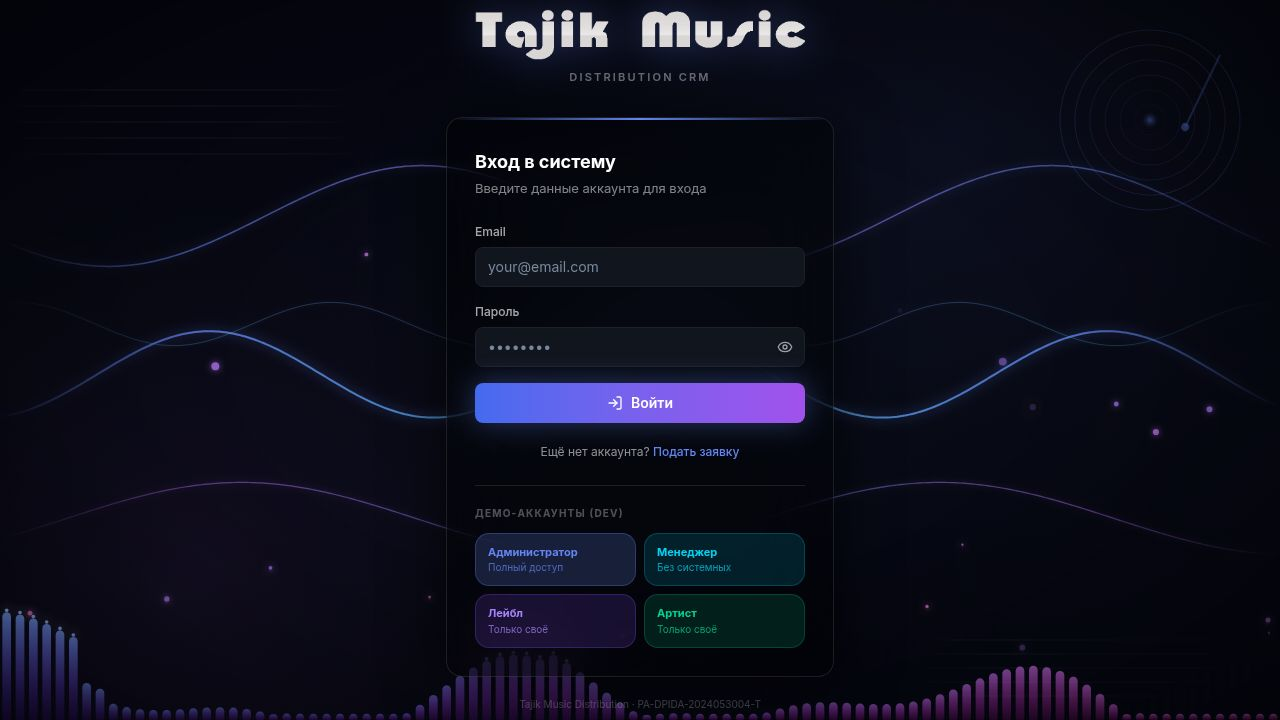
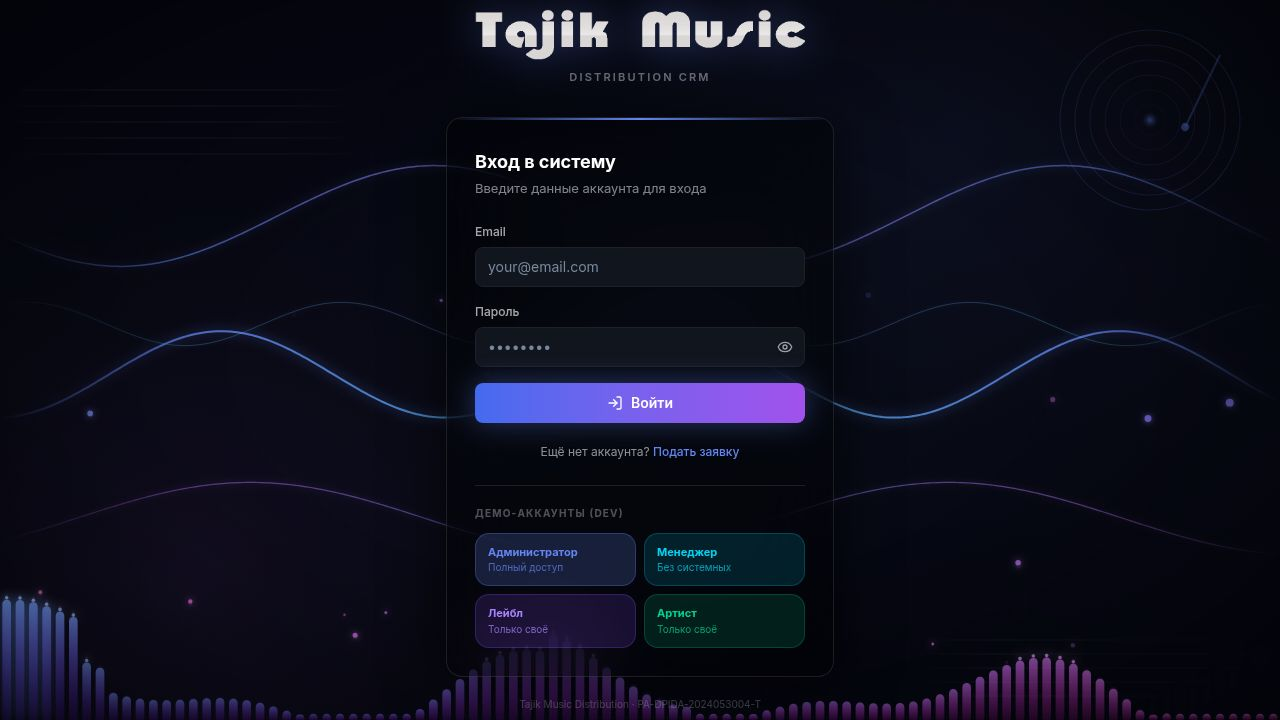
Add ability for administrators to temporarily log in as other users
Introduce a new dialog component for user impersonation, allowing administrators to switch user accounts. Update layout to include a menu option for this feature, which fetches and displays a searchable list of users, enabling seamless switching and a visual indicator of the impersonation state.

Replit-Commit-Author: Agent
Replit-Commit-Session-Id: 12347e3b-bba9-4431-a48b-e6d56e2d88b0
Replit-Commit-Checkpoint-Type: full_checkpoint
Replit-Commit-Event-Id: 428a035f-8997-43d8-9a8f-2f0101adbc15
Replit-Commit-Screenshot-Url: https://storage.googleapis.com/screenshot-production-us-central1/67c94f0b-b70a-4b60-9207-2a9435433159/12347e3b-bba9-4431-a48b-e6d56e2d88b0/TjV8ggN
Replit-Helium-Checkpoint-Created: true

diff --git a/artifacts/crm-panel/src/components/impersonate-dialog.tsx b/artifacts/crm-panel/src/components/impersonate-dialog.tsx
@@ -1,0 +1,191 @@
+import { useState, useEffect, useRef } from "react";
+import {
+  Dialog, DialogContent, DialogHeader, DialogTitle, DialogDescription,
+} from "./ui/dialog";
+import { Input } from "./ui/input";
+import { Button } from "./ui/button";
+import { Avatar, AvatarFallback } from "./ui/avatar";
+import { Badge } from "./ui/badge";
+import { Search, Loader2, LogIn } from "lucide-react";
+import { useAuth } from "@/lib/auth";
+import { ROLE_LABELS, ROLE_COLORS } from "@/lib/permissions";
+import { cn } from "@/lib/utils";
+import { useToast } from "@/hooks/use-toast";
+import { useLocation } from "wouter";
+
+interface UserRow {
+  id: number;
+  name: string;
+  email: string;
+  role: "admin" | "manager" | "label" | "artist";
+  status: string;
+}
+
+interface Props {
+  open: boolean;
+  onOpenChange: (v: boolean) => void;
+}
+
+export function ImpersonateDialog({ open, onOpenChange }: Props) {
+  const { impersonate } = useAuth();
+  const { toast } = useToast();
+  const [, navigate] = useLocation();
+
+  const [users, setUsers] = useState<UserRow[]>([]);
+  const [loading, setLoading] = useState(false);
+  const [query, setQuery] = useState("");
+  const [busyId, setBusyId] = useState<number | null>(null);
+  const inputRef = useRef<HTMLInputElement>(null);
+
+  useEffect(() => {
+    if (!open) return;
+    setQuery("");
+    setLoading(true);
+    fetch("/api/users?limit=200", { credentials: "same-origin" })
+      .then((r) => r.json())
+      .then((data) => {
+        const rows: UserRow[] = (data.data ?? []).filter(
+          (u: UserRow) => u.role !== "admin",
+        );
+        setUsers(rows);
+      })
+      .catch(() => {
+        toast({ variant: "destructive", title: "Не удалось загрузить пользователей" });
+      })
+      .finally(() => {
+        setLoading(false);
+        setTimeout(() => inputRef.current?.focus(), 50);
+      });
+  }, [open]);
+
+  const filtered = users.filter((u) => {
+    const q = query.toLowerCase();
+    return (
+      u.name.toLowerCase().includes(q) ||
+      u.email.toLowerCase().includes(q) ||
+      u.role.toLowerCase().includes(q)
+    );
+  });
+
+  const handleImpersonate = async (u: UserRow) => {
+    if (busyId !== null) return;
+    setBusyId(u.id);
+    const r = await impersonate(u.id);
+    setBusyId(null);
+    if (!r.ok) {
+      toast({ variant: "destructive", title: "Ошибка", description: r.error });
+      return;
+    }
+    toast({ title: `Вы вошли как ${u.name}`, description: u.email });
+    onOpenChange(false);
+    navigate("/");
+  };
+
+  const initials = (name: string) =>
+    name.split(/\s+/).map((s) => s[0]).filter(Boolean).slice(0, 2).join("").toUpperCase() || "?";
+
+  const grouped: Record<string, UserRow[]> = {};
+  for (const u of filtered) {
+    if (!grouped[u.role]) grouped[u.role] = [];
+    grouped[u.role].push(u);
+  }
+  const roleOrder = ["manager", "label", "artist"] as const;
+
+  return (
+    <Dialog open={open} onOpenChange={onOpenChange}>
+      <DialogContent className="sm:max-w-md bg-card border-border">
+        <DialogHeader>
+          <DialogTitle>Войти как пользователь</DialogTitle>
+          <DialogDescription className="text-[13px]">
+            Выберите аккаунт для просмотра системы от его лица.
+            Жёлтая полоса вверху покажет, что вы в режиме просмотра.
+          </DialogDescription>
+        </DialogHeader>
+
+        <div className="relative">
+          <Search className="absolute left-3 top-1/2 -translate-y-1/2 h-3.5 w-3.5 text-muted-foreground" />
+          <Input
+            ref={inputRef}
+            placeholder="Поиск по имени, email или роли…"
+            value={query}
+            onChange={(e) => setQuery(e.target.value)}
+            className="pl-9 bg-background/50"
+          />
+        </div>
+
+        <div className="max-h-[360px] overflow-y-auto -mx-1 px-1 flex flex-col gap-3">
+          {loading ? (
+            <div className="flex items-center justify-center py-10 text-muted-foreground gap-2 text-sm">
+              <Loader2 className="h-4 w-4 animate-spin" />
+              Загрузка…
+            </div>
+          ) : filtered.length === 0 ? (
+            <p className="text-center text-sm text-muted-foreground py-10">
+              Пользователи не найдены
+            </p>
+          ) : (
+            roleOrder.map((role) => {
+              const group = grouped[role];
+              if (!group?.length) return null;
+              return (
+                <div key={role}>
+                  <p className="text-[10px] uppercase tracking-wider font-semibold text-muted-foreground/70 mb-1.5 px-1">
+                    {ROLE_LABELS[role]}
+                  </p>
+                  <div className="flex flex-col gap-0.5">
+                    {group.map((u) => (
+                      <button
+                        key={u.id}
+                        onClick={() => handleImpersonate(u)}
+                        disabled={busyId !== null || u.status !== "active"}
+                        className={cn(
+                          "flex items-center gap-3 w-full px-2.5 py-2 rounded-lg text-left transition-colors",
+                          "hover:bg-accent focus-visible:outline-none focus-visible:ring-2 focus-visible:ring-primary/40",
+                          u.status !== "active" && "opacity-40 cursor-not-allowed",
+                          busyId === u.id && "opacity-60",
+                        )}
+                      >
+                        <Avatar className="h-8 w-8 shrink-0">
+                          <AvatarFallback className="text-[10px] font-bold bg-primary/10 text-primary">
+                            {initials(u.name)}
+                          </AvatarFallback>
+                        </Avatar>
+                        <div className="flex-1 min-w-0">
+                          <p className="text-sm font-medium leading-tight truncate">{u.name}</p>
+                          <p className="text-[11px] text-muted-foreground truncate">{u.email}</p>
+                        </div>
+                        <div className="flex items-center gap-2 shrink-0">
+                          {u.status !== "active" && (
+                            <Badge variant="outline" className="text-[9px] px-1.5 py-0">
+                              {u.status}
+                            </Badge>
+                          )}
+                          <span className={cn(
+                            "text-[9px] font-bold uppercase tracking-[0.1em] px-1.5 py-0.5 rounded border",
+                            ROLE_COLORS[u.role],
+                          )}>
+                            {ROLE_LABELS[u.role]}
+                          </span>
+                          {busyId === u.id
+                            ? <Loader2 className="h-3.5 w-3.5 animate-spin text-muted-foreground" />
+                            : <LogIn className="h-3.5 w-3.5 text-muted-foreground opacity-0 group-hover:opacity-100" />
+                          }
+                        </div>
+                      </button>
+                    ))}
+                  </div>
+                </div>
+              );
+            })
+          )}
+        </div>
+
+        <div className="pt-1">
+          <Button variant="outline" className="w-full" onClick={() => onOpenChange(false)}>
+            Отмена
+          </Button>
+        </div>
+      </DialogContent>
+    </Dialog>
+  );
+}

diff --git a/artifacts/crm-panel/src/components/layout.tsx b/artifacts/crm-panel/src/components/layout.tsx
@@ -1,6 +1,7 @@
 import { SidebarNav } from "./sidebar-nav";
 import { WaveBackground } from "./wave-background";
 import { NotificationsPopover } from "./notifications-popover";
+import { ImpersonateDialog } from "./impersonate-dialog";
 import {
   Search, Globe, ChevronDown,
   User as UserIcon, CreditCard, Repeat, Moon, Sun, LogOut,
@@ -31,6 +32,7 @@ export function Layout({ children }: { children: React.ReactNode }) {
   const [, navigate] = useLocation();
   const { toast } = useToast();
   const [stopBusy, setStopBusy] = useState(false);
+  const [impersonateOpen, setImpersonateOpen] = useState(false);
 
   const handleStopImpersonating = async () => {
     setStopBusy(true);
@@ -181,16 +183,15 @@ export function Layout({ children }: { children: React.ReactNode }) {
                       </span>
                       Оплата и налоги
                     </DropdownMenuItem>
-                    {user?.role === "admin" && (
+                    {user?.role === "admin" && !impersonator && (
                       <DropdownMenuItem
                         className="text-sm cursor-pointer gap-3 py-2.5"
-                        onClick={(e) => { e.preventDefault(); toast({ title: "Скоро", description: "Переключение между несколькими аккаунтами появится в следующем релизе." }); }}
+                        onSelect={() => setImpersonateOpen(true)}
                       >
                         <span className="h-7 w-7 rounded-md bg-cyan-500/10 flex items-center justify-center">
                           <Repeat className="h-3.5 w-3.5 text-cyan-400" />
                         </span>
                         Сменить аккаунт
-                        <span className="ml-auto text-[9px] uppercase tracking-wider text-muted-foreground/70 bg-muted/40 px-1.5 py-0.5 rounded">Скоро</span>
                       </DropdownMenuItem>
                     )}
 
@@ -248,6 +249,7 @@ export function Layout({ children }: { children: React.ReactNode }) {
           </div>
         </main>
       </div>
+      <ImpersonateDialog open={impersonateOpen} onOpenChange={setImpersonateOpen} />
     </div>
   );
 }